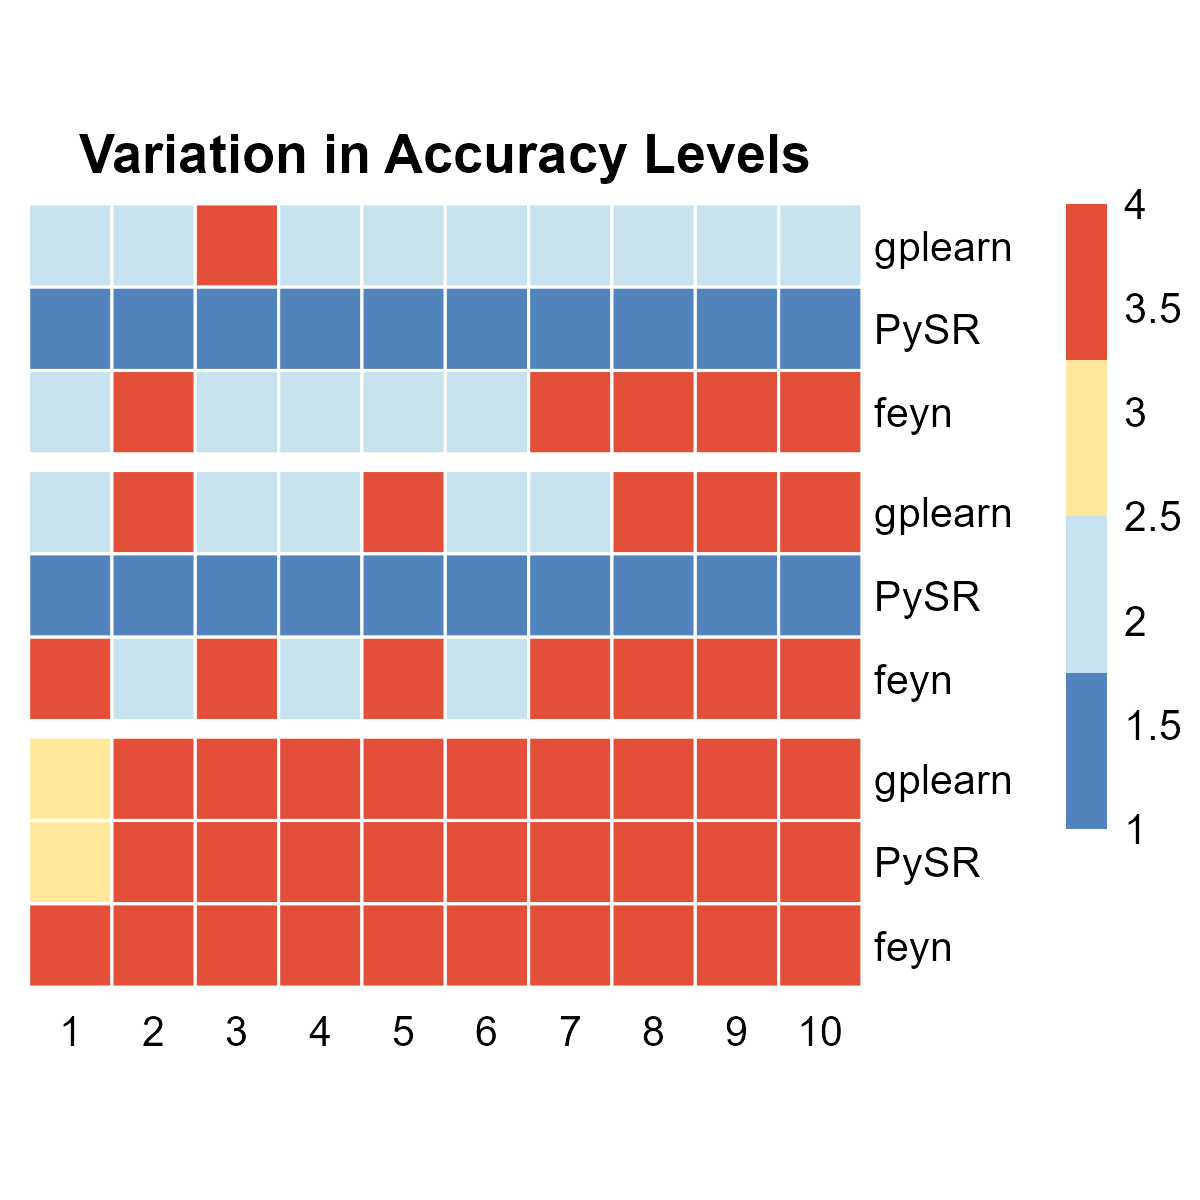
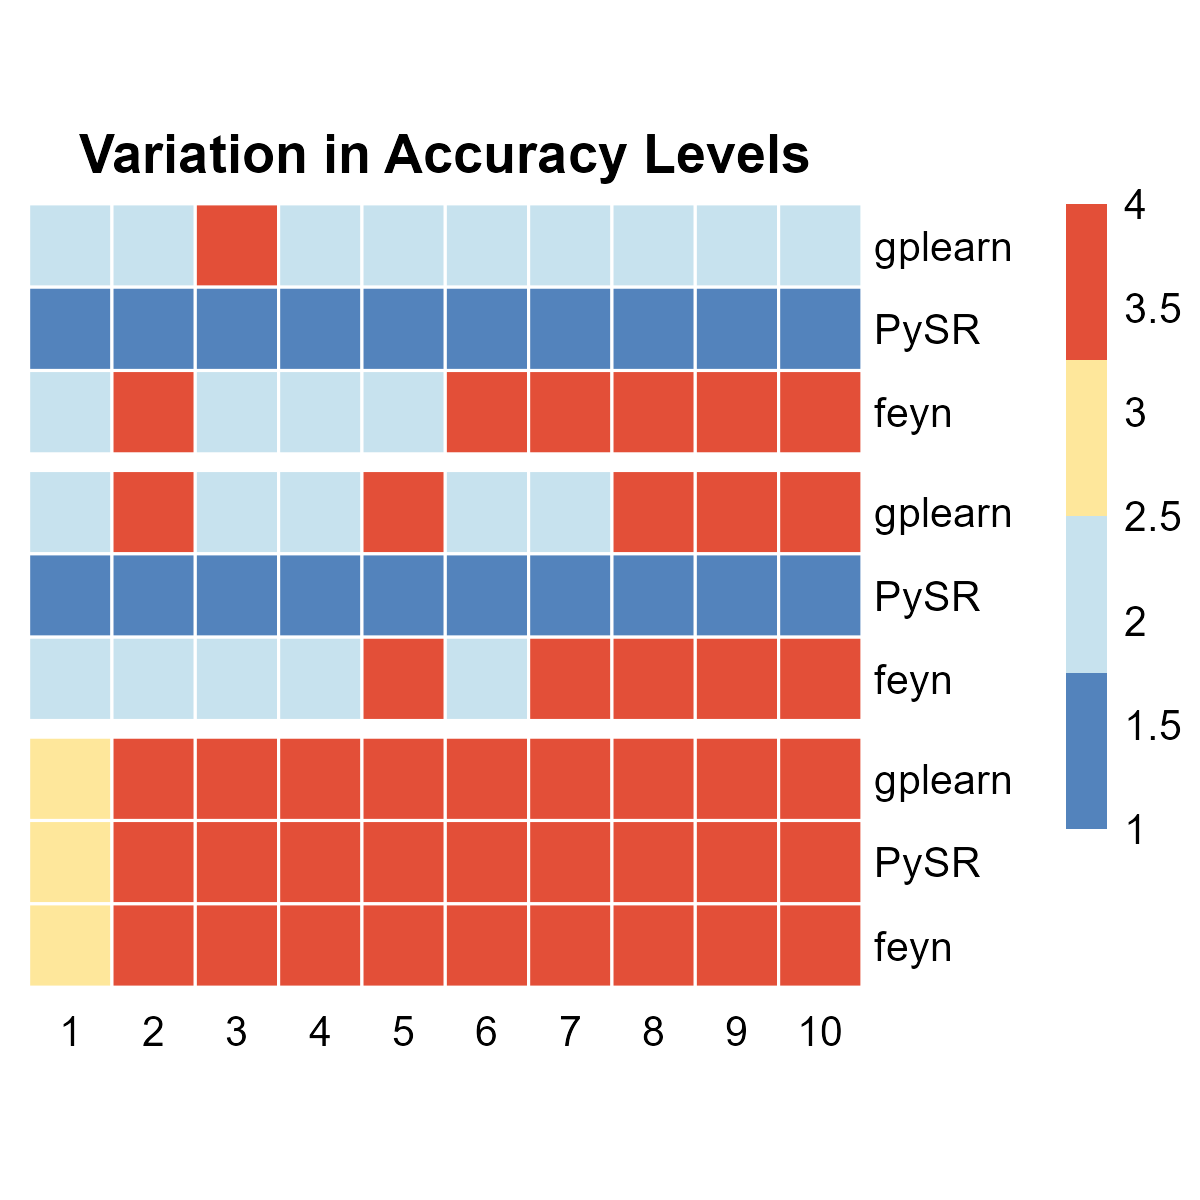
update feyn scoring

diff --git a/2_Code/1_Simulated_data/3_Simulated_feyn.py b/2_Code/1_Simulated_data/3_Simulated_feyn.py
@@ -21,7 +21,7 @@ with open('3_Data_intermediates/1_Simulated_data/sim_dict.pkl', 'rb') as f:
 ops = [
     ["log:1", "exp:1", "sqrt:1", "squared:1", "inverse:1", "linear:1", "tanh:1", "gaussian:1", "gaussian:2", "multiply:2"],
     ["log:1", "exp:1", "sqrt:1", "squared:1", "inverse:1", "linear:1", "tanh:1", "gaussian:1", "gaussian:2"],
-    ["squared:1", "inverse:1", "linear:1", "tanh:1", "gaussian:1", "gaussian:2"]
+    ["exp:1", "squared:1", "inverse:1", "linear:1", "tanh:1", "gaussian:1", "gaussian:2"]
 ]
 
 operators= pd.DataFrame({
